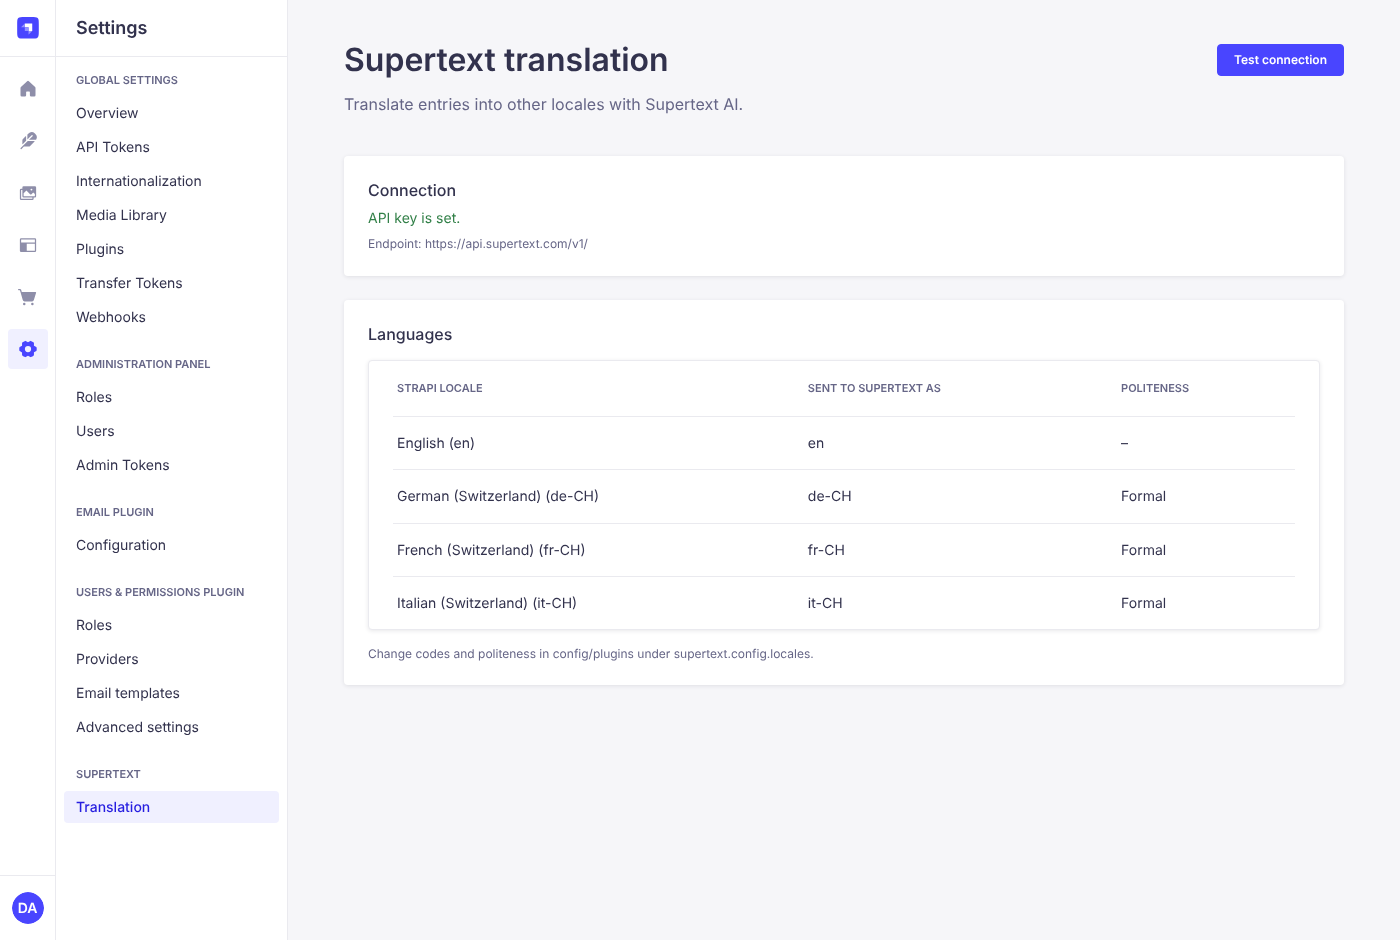
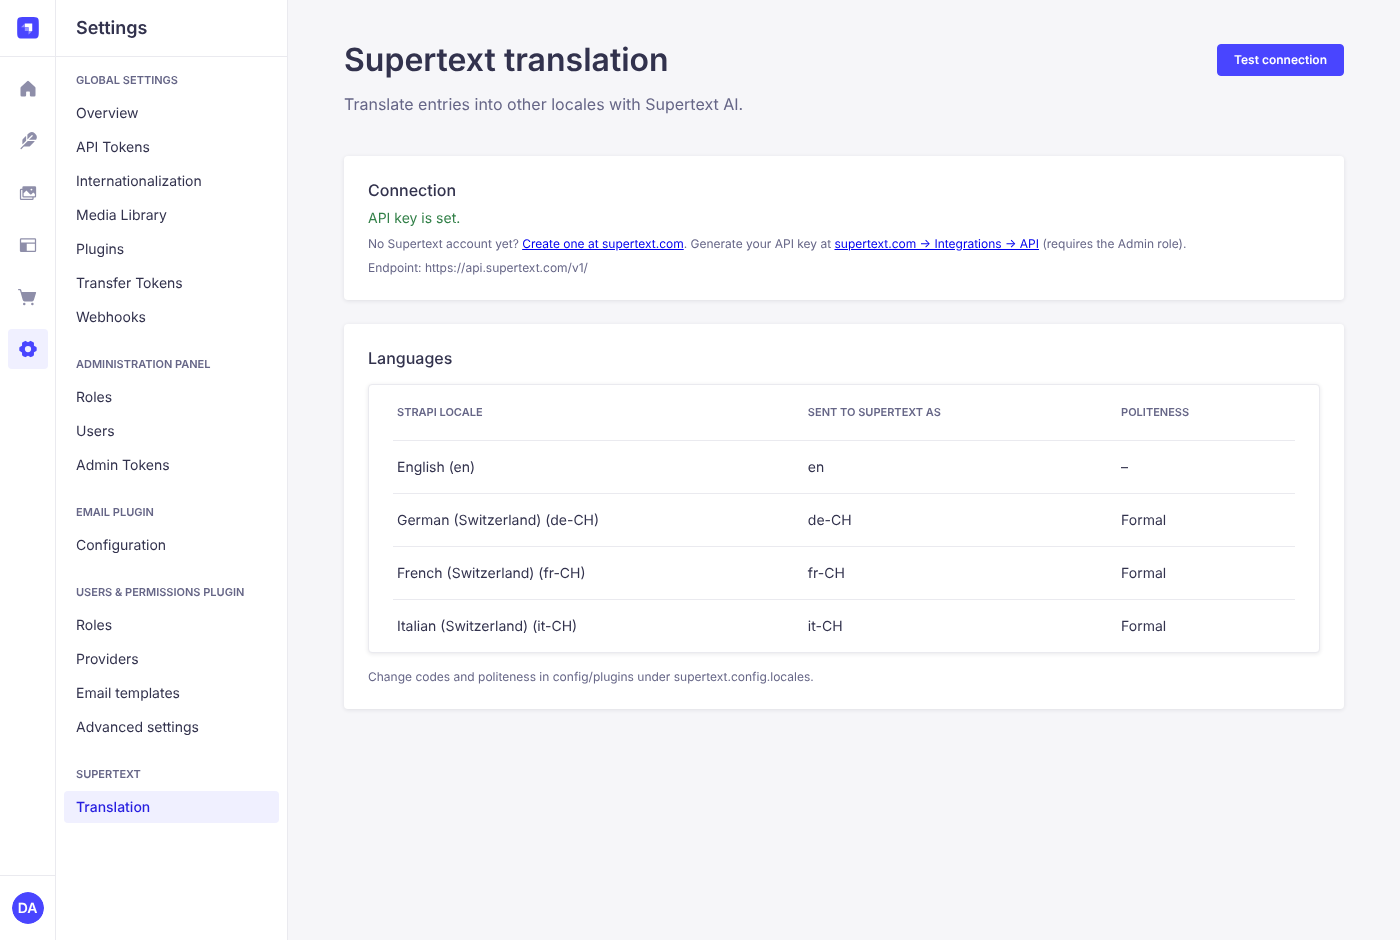
Regenerate settings screenshot with Supertext signup and API key links
Claude-Session: https://claude.ai/code/session_01EnSTWcWHurd9UcMU2SVApV

diff --git a/docs/INSTALLATION.md b/docs/INSTALLATION.md
@@ -78,7 +78,7 @@ npm run start      # or: npm run develop
 
 A new **Supertext translation** panel now appears in the right-hand column of every localized entry in the Content Manager, and **Settings → Supertext → Translation** shows the configuration.
 
-![Settings → Supertext → Translation: connection status, endpoint, and how each Strapi locale is sent to Supertext](images/settings.png)
+![Settings → Supertext → Translation: connection status, links to create a Supertext account and generate an API key, the endpoint, and how each Strapi locale is sent to Supertext](images/settings.png)
 
 ## 4. Check it works
 
